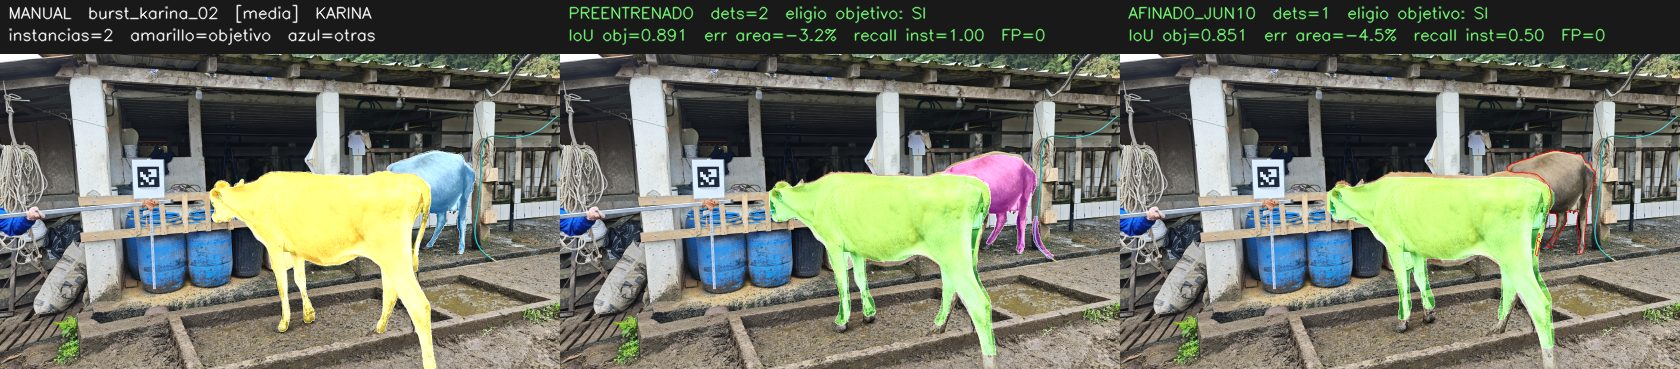
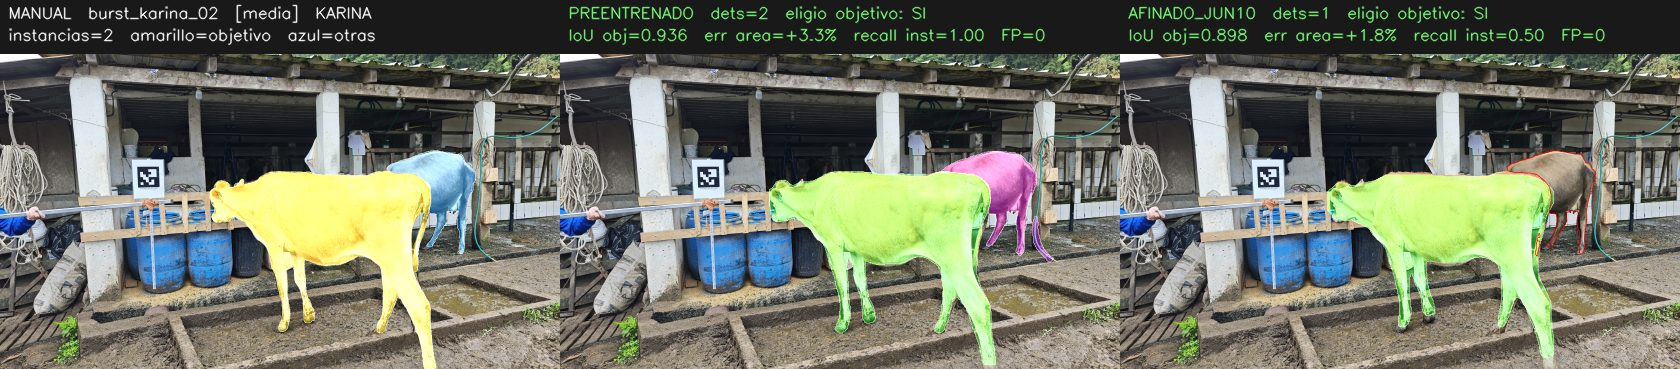
Corrige el recorte del relleno del letterbox en CowSegmenter: las máscaras 16:9 salían aplastadas un 6 %
r.masks.data está a la resolución de entrada de la red (384x640 para una foto 4096x2304), no a la
de la imagen; redimensionarlo directo comprimía la silueta en vertical y la desplazaba (filas
792..1865 contra 762..1891 de la anotación manual en burst_ambar_01, área -5.4 % contra +0.9 %
corregida). Ahora se usa ops.scale_masks, que recorta el relleno con la misma geometría que las
cajas. Las fotos 4:3 (fotos_hoy, repesaje) no tenían relleno y no cambian.

Descubierto al comparar el .pt con la emulación del APK (7 % de diferencia sistemática de área en
ráfagas, que baja a 1.2 % tras la corrección). Prueba de regresión contra retina_masks=True.
Se regenera informes/iou_val_manual_20260909 con el segmentador corregido: preentrenado 0.851,
afinado de junio 0.725, misma conclusión.

diff --git a/informes/iou_val_manual_20260909/index.html b/informes/iou_val_manual_20260909/index.html
@@ -3,20 +3,20 @@
 <p>Izquierda: manual, amarillo = vaca objetivo (inst0), azul = otras. Paneles de modelo: verde = máscara que el pipeline usaría (mayor área), magenta = otras detecciones, contorno rojo = vaca de referencia que nadie recuperó con IoU ≥ 0.5.</p>
 <p><b>preentrenado</b> = yolo26n-seg.pt (clase 19, sha256 361fbfabab285c32…); <b>afinado_jun10</b> = yolo26n-seg-finetuned.pt (clase 0, sha256 d6c65749431c100b…)</p>
 <h3>Resumen total</h3><table><tr><th>modelo</th><th>n</th><th>eligió objetivo %</th><th>sin detección</th><th>IoU objetivo</th><th>err área %</th><th>|err área| %</th><th>IoU emparejado</th><th>recall inst</th><th>FP</th></tr>
-<tr><td>preentrenado</td><td>40</td><td>92.5</td><td>1</td><td>0.847</td><td>1.9</td><td>8.1</td><td>0.752</td><td>0.846</td><td>16</td></tr>
-<tr><td>afinado_jun10</td><td>40</td><td>82.5</td><td>6</td><td>0.718</td><td>-15.3</td><td>19.9</td><td>0.498</td><td>0.569</td><td>1</td></tr>
+<tr><td>preentrenado</td><td>40</td><td>92.5</td><td>1</td><td>0.851</td><td>4.1</td><td>9.1</td><td>0.759</td><td>0.846</td><td>16</td></tr>
+<tr><td>afinado_jun10</td><td>40</td><td>82.5</td><td>6</td><td>0.725</td><td>-13.2</td><td>21.1</td><td>0.5</td><td>0.569</td><td>1</td></tr>
 </table>
 <h3>Resumen facil</h3><table><tr><th>modelo</th><th>n</th><th>eligió objetivo %</th><th>sin detección</th><th>IoU objetivo</th><th>err área %</th><th>|err área| %</th><th>IoU emparejado</th><th>recall inst</th><th>FP</th></tr>
 <tr><td>preentrenado</td><td>15</td><td>100.0</td><td>0</td><td>0.929</td><td>4.2</td><td>4.2</td><td>0.929</td><td>1.0</td><td>5</td></tr>
 <tr><td>afinado_jun10</td><td>15</td><td>93.3</td><td>1</td><td>0.83</td><td>-8.4</td><td>8.9</td><td>0.83</td><td>0.933</td><td>1</td></tr>
 </table>
 <h3>Resumen media</h3><table><tr><th>modelo</th><th>n</th><th>eligió objetivo %</th><th>sin detección</th><th>IoU objetivo</th><th>err área %</th><th>|err área| %</th><th>IoU emparejado</th><th>recall inst</th><th>FP</th></tr>
-<tr><td>preentrenado</td><td>15</td><td>86.7</td><td>0</td><td>0.769</td><td>4.7</td><td>7.8</td><td>0.56</td><td>0.691</td><td>9</td></tr>
-<tr><td>afinado_jun10</td><td>15</td><td>86.7</td><td>1</td><td>0.738</td><td>-2.6</td><td>14.5</td><td>0.269</td><td>0.316</td><td>0</td></tr>
+<tr><td>preentrenado</td><td>15</td><td>86.7</td><td>0</td><td>0.78</td><td>10.7</td><td>10.7</td><td>0.579</td><td>0.691</td><td>9</td></tr>
+<tr><td>afinado_jun10</td><td>15</td><td>86.7</td><td>1</td><td>0.756</td><td>3.0</td><td>17.5</td><td>0.275</td><td>0.316</td><td>0</td></tr>
 </table>
 <h3>Resumen dificil</h3><table><tr><th>modelo</th><th>n</th><th>eligió objetivo %</th><th>sin detección</th><th>IoU objetivo</th><th>err área %</th><th>|err área| %</th><th>IoU emparejado</th><th>recall inst</th><th>FP</th></tr>
-<tr><td>preentrenado</td><td>10</td><td>90.0</td><td>1</td><td>0.841</td><td>-5.8</td><td>14.2</td><td>0.774</td><td>0.85</td><td>2</td></tr>
-<tr><td>afinado_jun10</td><td>10</td><td>60.0</td><td>4</td><td>0.52</td><td>-44.6</td><td>44.6</td><td>0.343</td><td>0.4</td><td>0</td></tr>
+<tr><td>preentrenado</td><td>10</td><td>90.0</td><td>1</td><td>0.841</td><td>-5.9</td><td>14.1</td><td>0.774</td><td>0.85</td><td>2</td></tr>
+<tr><td>afinado_jun10</td><td>10</td><td>60.0</td><td>4</td><td>0.52</td><td>-44.7</td><td>44.7</td><td>0.343</td><td>0.4</td><td>0</td></tr>
 </table>
 <h2>facil</h2>
 <h4>5_06_ford · FORD · 1 vaca(s)</h4><div>preentrenado: <span class='si'>objetivo SI</span>, IoU 0.929, área +4.8%, recall 1.00, FP 0 · afinado_jun10: <span class='no'>objetivo NO</span>, IoU 0.000, área -100.0%, recall 0.00, FP 0</div><img src='img/5_06_ford.jpg' loading='lazy'>
@@ -35,29 +35,29 @@
 <h4>5_06_mariquita · MARIQUITA · 1 vaca(s)</h4><div>preentrenado: <span class='si'>objetivo SI</span>, IoU 0.931, área +2.0%, recall 1.00, FP 0 · afinado_jun10: <span class='si'>objetivo SI</span>, IoU 0.904, área +0.4%, recall 1.00, FP 0</div><img src='img/5_06_mariquita.jpg' loading='lazy'>
 <h4>5_06_odra · ODRA · 1 vaca(s)</h4><div>preentrenado: <span class='si'>objetivo SI</span>, IoU 0.935, área +3.2%, recall 1.00, FP 1 · afinado_jun10: <span class='si'>objetivo SI</span>, IoU 0.921, área +0.2%, recall 1.00, FP 0</div><img src='img/5_06_odra.jpg' loading='lazy'>
 <h2>media</h2>
-<h4>burst_estrellita_01 · ESTRELLITA · 5 vaca(s)</h4><div>preentrenado: <span class='si'>objetivo SI</span>, IoU 0.840, área +12.5%, recall 0.80, FP 1 · afinado_jun10: <span class='no'>objetivo NO</span>, IoU 0.000, área -100.0%, recall 0.00, FP 0</div><img src='img/burst_estrellita_01.jpg' loading='lazy'>
-<h4>burst_taty_01 · TATY · 8 vaca(s)</h4><div>preentrenado: <span class='si'>objetivo SI</span>, IoU 0.864, área +1.7%, recall 0.50, FP 0 · afinado_jun10: <span class='si'>objetivo SI</span>, IoU 0.781, área +1.8%, recall 0.12, FP 0</div><img src='img/burst_taty_01.jpg' loading='lazy'>
-<h4>burst_estrellita_02 · ESTRELLITA · 4 vaca(s)</h4><div>preentrenado: <span class='si'>objetivo SI</span>, IoU 0.896, área +1.9%, recall 0.50, FP 1 · afinado_jun10: <span class='si'>objetivo SI</span>, IoU 0.820, área +10.9%, recall 0.25, FP 0</div><img src='img/burst_estrellita_02.jpg' loading='lazy'>
-<h4>12_06_damita · DAMITA · 1 vaca(s)</h4><div>preentrenado: <span class='si'>objetivo SI</span>, IoU 0.943, área +4.6%, recall 1.00, FP 0 · afinado_jun10: <span class='si'>objetivo SI</span>, IoU 0.888, área -5.2%, recall 1.00, FP 0</div><img src='img/12_06_damita.jpg' loading='lazy'>
-<h4>burst_karina_01 · KARINA · 2 vaca(s)</h4><div>preentrenado: <span class='si'>objetivo SI</span>, IoU 0.891, área -2.9%, recall 1.00, FP 0 · afinado_jun10: <span class='si'>objetivo SI</span>, IoU 0.846, área -1.5%, recall 0.50, FP 0</div><img src='img/burst_karina_01.jpg' loading='lazy'>
+<h4>burst_estrellita_01 · ESTRELLITA · 5 vaca(s)</h4><div>preentrenado: <span class='si'>objetivo SI</span>, IoU 0.819, área +19.9%, recall 0.80, FP 1 · afinado_jun10: <span class='no'>objetivo NO</span>, IoU 0.000, área -100.0%, recall 0.00, FP 0</div><img src='img/burst_estrellita_01.jpg' loading='lazy'>
+<h4>burst_estrellita_02 · ESTRELLITA · 4 vaca(s)</h4><div>preentrenado: <span class='si'>objetivo SI</span>, IoU 0.899, área +8.6%, recall 0.50, FP 1 · afinado_jun10: <span class='si'>objetivo SI</span>, IoU 0.814, área +18.3%, recall 0.25, FP 0</div><img src='img/burst_estrellita_02.jpg' loading='lazy'>
+<h4>burst_taty_01 · TATY · 8 vaca(s)</h4><div>preentrenado: <span class='si'>objetivo SI</span>, IoU 0.885, área +8.6%, recall 0.50, FP 0 · afinado_jun10: <span class='si'>objetivo SI</span>, IoU 0.813, área +8.6%, recall 0.12, FP 0</div><img src='img/burst_taty_01.jpg' loading='lazy'>
+<h4>12_06_damita · DAMITA · 1 vaca(s)</h4><div>preentrenado: <span class='si'>objetivo SI</span>, IoU 0.944, área +4.4%, recall 1.00, FP 0 · afinado_jun10: <span class='si'>objetivo SI</span>, IoU 0.887, área -5.5%, recall 1.00, FP 0</div><img src='img/12_06_damita.jpg' loading='lazy'>
+<h4>burst_ambar_03 · AMBAR · 5 vaca(s)</h4><div>preentrenado: <span class='si'>objetivo SI</span>, IoU 0.903, área +0.5%, recall 0.60, FP 2 · afinado_jun10: <span class='si'>objetivo SI</span>, IoU 0.853, área +10.5%, recall 0.20, FP 0</div><img src='img/burst_ambar_03.jpg' loading='lazy'>
 <h4>12_06_anita · ANITA · 2 vaca(s)</h4><div>preentrenado: <span class='si'>objetivo SI</span>, IoU 0.942, área +1.7%, recall 0.50, FP 0 · afinado_jun10: <span class='si'>objetivo SI</span>, IoU 0.900, área -2.7%, recall 0.50, FP 0</div><img src='img/12_06_anita.jpg' loading='lazy'>
-<h4>burst_estrellita_03 · ESTRELLITA · 5 vaca(s)</h4><div>preentrenado: <span class='si'>objetivo SI</span>, IoU 0.852, área +6.3%, recall 0.20, FP 1 · afinado_jun10: <span class='si'>objetivo SI</span>, IoU 0.811, área +9.7%, recall 0.20, FP 0</div><img src='img/burst_estrellita_03.jpg' loading='lazy'>
-<h4>burst_karina_02 · KARINA · 2 vaca(s)</h4><div>preentrenado: <span class='si'>objetivo SI</span>, IoU 0.891, área -3.2%, recall 1.00, FP 0 · afinado_jun10: <span class='si'>objetivo SI</span>, IoU 0.851, área -4.5%, recall 0.50, FP 0</div><img src='img/burst_karina_02.jpg' loading='lazy'>
-<h4>burst_taty_02 · TATY · 11 vaca(s)</h4><div>preentrenado: <span class='si'>objetivo SI</span>, IoU 0.884, área -4.6%, recall 0.36, FP 1 · afinado_jun10: <span class='si'>objetivo SI</span>, IoU 0.846, área -3.6%, recall 0.09, FP 0</div><img src='img/burst_taty_02.jpg' loading='lazy'>
-<h4>burst_ambar_01 · AMBAR · 5 vaca(s)</h4><div>preentrenado: <span class='si'>objetivo SI</span>, IoU 0.907, área -5.4%, recall 1.00, FP 1 · afinado_jun10: <span class='si'>objetivo SI</span>, IoU 0.871, área -7.0%, recall 0.20, FP 0</div><img src='img/burst_ambar_01.jpg' loading='lazy'>
-<h4>burst_ambar_03 · AMBAR · 5 vaca(s)</h4><div>preentrenado: <span class='si'>objetivo SI</span>, IoU 0.892, área -5.8%, recall 0.60, FP 2 · afinado_jun10: <span class='si'>objetivo SI</span>, IoU 0.856, área +3.6%, recall 0.20, FP 0</div><img src='img/burst_ambar_03.jpg' loading='lazy'>
-<h4>burst_ambar_02 · AMBAR · 5 vaca(s)</h4><div>preentrenado: <span class='si'>objetivo SI</span>, IoU 0.836, área +0.7%, recall 0.80, FP 1 · afinado_jun10: <span class='si'>objetivo SI</span>, IoU 0.806, área -0.2%, recall 0.20, FP 0</div><img src='img/burst_ambar_02.jpg' loading='lazy'>
-<h4>burst_odra_01 · ODRA · 2 vaca(s)</h4><div>preentrenado: <span class='si'>objetivo SI</span>, IoU 0.897, área -1.6%, recall 1.00, FP 0 · afinado_jun10: <span class='si'>objetivo SI</span>, IoU 0.871, área -3.2%, recall 0.50, FP 0</div><img src='img/burst_odra_01.jpg' loading='lazy'>
-<h4>burst_nahomi_02 · NAHOMI · 6 vaca(s)</h4><div>preentrenado: <span class='no'>objetivo NO</span>, IoU 0.000, área +45.6%, recall 0.67, FP 0 · afinado_jun10: <span class='no'>objetivo NO</span>, IoU 0.065, área +62.6%, recall 0.33, FP 0</div><img src='img/burst_nahomi_02.jpg' loading='lazy'>
-<h4>burst_nahomi_01 · NAHOMI · 7 vaca(s)</h4><div>preentrenado: <span class='no'>objetivo NO</span>, IoU 0.000, área +19.1%, recall 0.43, FP 1 · afinado_jun10: <span class='si'>objetivo SI</span>, IoU 0.863, área -0.3%, recall 0.14, FP 0</div><img src='img/burst_nahomi_01.jpg' loading='lazy'>
+<h4>burst_karina_02 · KARINA · 2 vaca(s)</h4><div>preentrenado: <span class='si'>objetivo SI</span>, IoU 0.936, área +3.3%, recall 1.00, FP 0 · afinado_jun10: <span class='si'>objetivo SI</span>, IoU 0.898, área +1.8%, recall 0.50, FP 0</div><img src='img/burst_karina_02.jpg' loading='lazy'>
+<h4>burst_taty_02 · TATY · 11 vaca(s)</h4><div>preentrenado: <span class='si'>objetivo SI</span>, IoU 0.899, área +1.8%, recall 0.36, FP 1 · afinado_jun10: <span class='si'>objetivo SI</span>, IoU 0.871, área +2.8%, recall 0.09, FP 0</div><img src='img/burst_taty_02.jpg' loading='lazy'>
+<h4>burst_estrellita_03 · ESTRELLITA · 5 vaca(s)</h4><div>preentrenado: <span class='si'>objetivo SI</span>, IoU 0.850, área +13.4%, recall 0.20, FP 1 · afinado_jun10: <span class='si'>objetivo SI</span>, IoU 0.823, área +17.0%, recall 0.20, FP 0</div><img src='img/burst_estrellita_03.jpg' loading='lazy'>
+<h4>burst_karina_01 · KARINA · 2 vaca(s)</h4><div>preentrenado: <span class='si'>objetivo SI</span>, IoU 0.916, área +3.5%, recall 1.00, FP 0 · afinado_jun10: <span class='si'>objetivo SI</span>, IoU 0.890, área +5.1%, recall 0.50, FP 0</div><img src='img/burst_karina_01.jpg' loading='lazy'>
+<h4>burst_ambar_01 · AMBAR · 5 vaca(s)</h4><div>preentrenado: <span class='si'>objetivo SI</span>, IoU 0.926, área +0.9%, recall 1.00, FP 1 · afinado_jun10: <span class='si'>objetivo SI</span>, IoU 0.908, área -0.8%, recall 0.20, FP 0</div><img src='img/burst_ambar_01.jpg' loading='lazy'>
+<h4>burst_ambar_02 · AMBAR · 5 vaca(s)</h4><div>preentrenado: <span class='si'>objetivo SI</span>, IoU 0.848, área +7.4%, recall 0.80, FP 1 · afinado_jun10: <span class='si'>objetivo SI</span>, IoU 0.831, área +6.5%, recall 0.20, FP 0</div><img src='img/burst_ambar_02.jpg' loading='lazy'>
+<h4>burst_odra_01 · ODRA · 2 vaca(s)</h4><div>preentrenado: <span class='si'>objetivo SI</span>, IoU 0.924, área +5.0%, recall 1.00, FP 0 · afinado_jun10: <span class='si'>objetivo SI</span>, IoU 0.914, área +3.2%, recall 0.50, FP 0</div><img src='img/burst_odra_01.jpg' loading='lazy'>
+<h4>burst_nahomi_02 · NAHOMI · 6 vaca(s)</h4><div>preentrenado: <span class='no'>objetivo NO</span>, IoU 0.000, área +55.3%, recall 0.67, FP 0 · afinado_jun10: <span class='no'>objetivo NO</span>, IoU 0.066, área +73.6%, recall 0.33, FP 0</div><img src='img/burst_nahomi_02.jpg' loading='lazy'>
+<h4>burst_nahomi_01 · NAHOMI · 7 vaca(s)</h4><div>preentrenado: <span class='no'>objetivo NO</span>, IoU 0.000, área +27.0%, recall 0.43, FP 1 · afinado_jun10: <span class='si'>objetivo SI</span>, IoU 0.874, área +6.4%, recall 0.14, FP 0</div><img src='img/burst_nahomi_01.jpg' loading='lazy'>
 <h2>dificil</h2>
 <h4>12_06_selena · SELENA · 1 vaca(s)</h4><div>preentrenado: <span class='si'>objetivo SI</span>, IoU 0.952, área +3.5%, recall 1.00, FP 1 · afinado_jun10: <span class='no'>objetivo NO</span>, IoU 0.000, área -100.0%, recall 0.00, FP 0</div><img src='img/12_06_selena.jpg' loading='lazy'>
 <h4>12_06_nohemi · NOHEMI · 1 vaca(s)</h4><div>preentrenado: <span class='si'>objetivo SI</span>, IoU 0.942, área +2.7%, recall 1.00, FP 0 · afinado_jun10: <span class='no'>objetivo NO</span>, IoU 0.000, área -100.0%, recall 0.00, FP 0</div><img src='img/12_06_nohemi.jpg' loading='lazy'>
 <h4>12_06_mariquita · MARIQUITA · 2 vaca(s)</h4><div>preentrenado: <span class='si'>objetivo SI</span>, IoU 0.922, área +4.0%, recall 0.50, FP 0 · afinado_jun10: <span class='no'>objetivo NO</span>, IoU 0.000, área -100.0%, recall 0.00, FP 0</div><img src='img/12_06_mariquita.jpg' loading='lazy'>
-<h4>12_06_oscarina · OSCARINA · 1 vaca(s)</h4><div>preentrenado: <span class='si'>objetivo SI</span>, IoU 0.933, área +4.0%, recall 1.00, FP 0 · afinado_jun10: <span class='si'>objetivo SI</span>, IoU 0.801, área -15.8%, recall 1.00, FP 0</div><img src='img/12_06_oscarina.jpg' loading='lazy'>
-<h4>12_06_diagira · DIAGIRA · 1 vaca(s)</h4><div>preentrenado: <span class='si'>objetivo SI</span>, IoU 0.933, área +6.0%, recall 1.00, FP 1 · afinado_jun10: <span class='si'>objetivo SI</span>, IoU 0.853, área -6.2%, recall 1.00, FP 0</div><img src='img/12_06_diagira.jpg' loading='lazy'>
+<h4>12_06_oscarina · OSCARINA · 1 vaca(s)</h4><div>preentrenado: <span class='si'>objetivo SI</span>, IoU 0.934, área +3.8%, recall 1.00, FP 0 · afinado_jun10: <span class='si'>objetivo SI</span>, IoU 0.801, área -16.0%, recall 1.00, FP 0</div><img src='img/12_06_oscarina.jpg' loading='lazy'>
+<h4>12_06_diagira · DIAGIRA · 1 vaca(s)</h4><div>preentrenado: <span class='si'>objetivo SI</span>, IoU 0.934, área +5.8%, recall 1.00, FP 1 · afinado_jun10: <span class='si'>objetivo SI</span>, IoU 0.852, área -6.4%, recall 1.00, FP 0</div><img src='img/12_06_diagira.jpg' loading='lazy'>
 <h4>12_06_chaparrita · CHAPARRITA · 2 vaca(s)</h4><div>preentrenado: <span class='si'>objetivo SI</span>, IoU 0.929, área +4.9%, recall 1.00, FP 0 · afinado_jun10: <span class='si'>objetivo SI</span>, IoU 0.851, área -10.4%, recall 0.50, FP 0</div><img src='img/12_06_chaparrita.jpg' loading='lazy'>
 <h4>12_06_lubianca · LUBIANCA · 2 vaca(s)</h4><div>preentrenado: <span class='si'>objetivo SI</span>, IoU 0.945, área +4.1%, recall 1.00, FP 0 · afinado_jun10: <span class='si'>objetivo SI</span>, IoU 0.894, área -4.7%, recall 0.50, FP 0</div><img src='img/12_06_lubianca.jpg' loading='lazy'>
-<h4>12_06_mafer · MAFER · 2 vaca(s)</h4><div>preentrenado: <span class='si'>objetivo SI</span>, IoU 0.909, área +9.8%, recall 1.00, FP 0 · afinado_jun10: <span class='si'>objetivo SI</span>, IoU 0.866, área -9.1%, recall 0.50, FP 0</div><img src='img/12_06_mafer.jpg' loading='lazy'>
+<h4>12_06_mafer · MAFER · 2 vaca(s)</h4><div>preentrenado: <span class='si'>objetivo SI</span>, IoU 0.911, área +9.5%, recall 1.00, FP 0 · afinado_jun10: <span class='si'>objetivo SI</span>, IoU 0.866, área -9.4%, recall 0.50, FP 0</div><img src='img/12_06_mafer.jpg' loading='lazy'>
 <h4>12_06_zafiro · ZAFIRO · 2 vaca(s)</h4><div>preentrenado: <span class='si'>objetivo SI</span>, IoU 0.944, área +2.5%, recall 1.00, FP 0 · afinado_jun10: <span class='si'>objetivo SI</span>, IoU 0.939, área -0.2%, recall 0.50, FP 0</div><img src='img/12_06_zafiro.jpg' loading='lazy'>
 <h4>12_06_karina · KARINA · 1 vaca(s)</h4><div>preentrenado: <span class='no'>objetivo NO</span>, IoU 0.000, área -100.0%, recall 0.00, FP 0 · afinado_jun10: <span class='no'>objetivo NO</span>, IoU 0.000, área -100.0%, recall 0.00, FP 0</div><img src='img/12_06_karina.jpg' loading='lazy'>

diff --git a/pipeline/tests/test_segmenter_padding.py b/pipeline/tests/test_segmenter_padding.py
@@ -1,0 +1,40 @@
+"""CowSegmenter debe recortar el relleno del letterbox antes de escalar la máscara.
+
+Regresión del bug encontrado el 9 sep 2026: r.masks.data está a la resolución de entrada de la red
+(384×640 para una foto 4096×2304) y redimensionarlo directo a la imagen aplastaba la silueta un 6 %
+en vertical. Referencia: retina_masks=True (máscara nativa a resolución original) y el APK.
+"""
+from pathlib import Path
+
+import cv2
+import numpy as np
+import pytest
+
+ROOT = Path(__file__).resolve().parent.parent
+PT = ROOT / "models/yolo26n-seg.pt"
+
+
+def iou(a, b):
+    u = np.logical_or(a, b).sum()
+    return float(np.logical_and(a, b).sum() / u) if u else 0.0
+
+
+@pytest.mark.slow
+@pytest.mark.parametrize("qid", ["burst_ambar_01", "burst_taty_01", "5_06_perla"])
+def test_mask_matches_retina_masks_reference(qid):
+    if not PT.exists():
+        pytest.skip("sin models/yolo26n-seg.pt")
+    ip = next((ROOT / "data/val_clean/images").glob(f"{qid}.*"), None)
+    if ip is None:
+        pytest.skip("sin data/val_clean")
+    from ultralytics import YOLO
+    from core.segmenter import CowSegmenter
+    im = cv2.imread(str(ip))
+    got = max(CowSegmenter(str(PT), 19, 0.5, device="cpu").segment(im), key=lambda c: c.area_px).mask
+    rr = YOLO(str(PT)).predict(source=im, classes=[19], conf=0.5, verbose=False, device="cpu", retina_masks=True)[0]
+    ref = max(((m.cpu().numpy() > 0.5).astype(np.uint8) for m in rr.masks.data), key=lambda m: int(m.sum()))
+    assert got.shape == ref.shape == im.shape[:2]
+    assert iou(got, ref) > 0.97, f"{qid}: IoU {iou(got, ref):.3f} contra retina_masks (¿relleno sin recortar?)"
+    rows_got = np.where(got.any(axis=1))[0]
+    rows_ref = np.where(ref.any(axis=1))[0]
+    assert abs(int(rows_got.min()) - int(rows_ref.min())) <= 8 and abs(int(rows_got.max()) - int(rows_ref.max())) <= 8

diff --git a/pipeline/src/core/segmenter.py b/pipeline/src/core/segmenter.py
@@ -12,6 +12,7 @@ from dataclasses import dataclass
 import cv2
 import numpy as np
 from ultralytics import YOLO
+from ultralytics.utils import ops
 
 
 @dataclass
@@ -54,14 +55,15 @@ class CowSegmenter:
             return []
 
         out: list[CowSegmentation] = []
-        masks_data = r.masks.data.cpu().numpy()  # (N, mh, mw) in mask resolution
+        # r.masks.data está a la resolución de ENTRADA de la red (letterbox con relleno, p. ej. 384×640
+        # para una foto 16:9), no a la de la imagen. Hay que recortar el relleno antes de escalar:
+        # redimensionar directo aplasta la silueta (−6 % de alto en ráfagas 4096×2304). scale_masks
+        # hace el recorte y el escalado con la misma geometría que usa Ultralytics para las cajas.
+        masks_data = ops.scale_masks(r.masks.data[None].float(), (h, w))[0].cpu().numpy()  # (N, h, w)
         for i, box in enumerate(r.boxes):
             xyxy = box.xyxy[0].cpu().numpy().astype(int)
             conf = float(box.conf[0].cpu().numpy())
-            raw = masks_data[i]
-            # Resize mask to the full frame resolution and binarize
-            mask = cv2.resize(raw, (w, h), interpolation=cv2.INTER_NEAREST)
-            mask = (mask > 0.5).astype(np.uint8)
+            mask = (masks_data[i] > 0.5).astype(np.uint8)
             out.append(
                 CowSegmentation(
                     confidence=conf,

diff --git a/informes/iou_val_manual_20260909/resumen.md b/informes/iou_val_manual_20260909/resumen.md
@@ -11,8 +11,8 @@ Modelos:
 
 | modelo | n | eligió objetivo % | sin detección | IoU objetivo | % IoU>0.5 | err área medio % | |err área| % | IoU emparejado | recall inst | FP |
 |---|---|---|---|---|---|---|---|---|---|---|
-| preentrenado | 40 | 92.5 | 1 | 0.847 | 92.5 | 1.9 | 8.1 | 0.752 | 0.846 | 16 |
-| afinado_jun10 | 40 | 82.5 | 6 | 0.718 | 82.5 | -15.3 | 19.9 | 0.498 | 0.569 | 1 |
+| preentrenado | 40 | 92.5 | 1 | 0.851 | 92.5 | 4.1 | 9.1 | 0.759 | 0.846 | 16 |
+| afinado_jun10 | 40 | 82.5 | 6 | 0.725 | 82.5 | -13.2 | 21.1 | 0.5 | 0.569 | 1 |
 
 ## facil
 
@@ -25,16 +25,16 @@ Modelos:
 
 | modelo | n | eligió objetivo % | sin detección | IoU objetivo | % IoU>0.5 | err área medio % | |err área| % | IoU emparejado | recall inst | FP |
 |---|---|---|---|---|---|---|---|---|---|---|
-| preentrenado | 15 | 86.7 | 0 | 0.769 | 86.7 | 4.7 | 7.8 | 0.56 | 0.691 | 9 |
-| afinado_jun10 | 15 | 86.7 | 1 | 0.738 | 86.7 | -2.6 | 14.5 | 0.269 | 0.316 | 0 |
+| preentrenado | 15 | 86.7 | 0 | 0.78 | 86.7 | 10.7 | 10.7 | 0.579 | 0.691 | 9 |
+| afinado_jun10 | 15 | 86.7 | 1 | 0.756 | 86.7 | 3.0 | 17.5 | 0.275 | 0.316 | 0 |
 
 ## dificil
 
 | modelo | n | eligió objetivo % | sin detección | IoU objetivo | % IoU>0.5 | err área medio % | |err área| % | IoU emparejado | recall inst | FP |
 |---|---|---|---|---|---|---|---|---|---|---|
-| preentrenado | 10 | 90.0 | 1 | 0.841 | 90.0 | -5.8 | 14.2 | 0.774 | 0.85 | 2 |
-| afinado_jun10 | 10 | 60.0 | 4 | 0.52 | 60.0 | -44.6 | 44.6 | 0.343 | 0.4 | 0 |
+| preentrenado | 10 | 90.0 | 1 | 0.841 | 90.0 | -5.9 | 14.1 | 0.774 | 0.85 | 2 |
+| afinado_jun10 | 10 | 60.0 | 4 | 0.52 | 60.0 | -44.7 | 44.7 | 0.343 | 0.4 | 0 |
 
 ## Bootstrap por animal (5000 remuestreos, semilla 0), diferencia contra `preentrenado`
 
-- `afinado_jun10` − `preentrenado` en IoU objetivo: media -0.1294, IC95 [-0.2345, -0.0336]; en error de área: media -0.1812, IC95 [-0.2891, -0.0946] (n=24 animales)
+- `afinado_jun10` − `preentrenado` en IoU objetivo: media -0.1278, IC95 [-0.2331, -0.0313]; en error de área: media -0.1821, IC95 [-0.2909, -0.0952] (n=24 animales)
